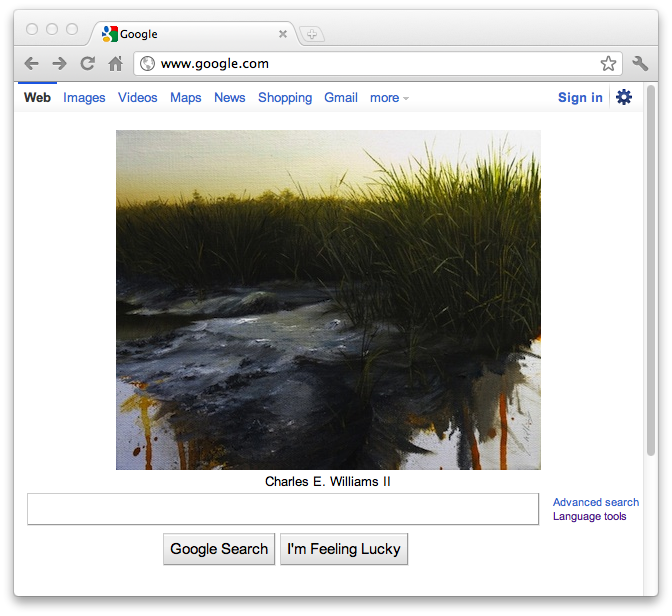
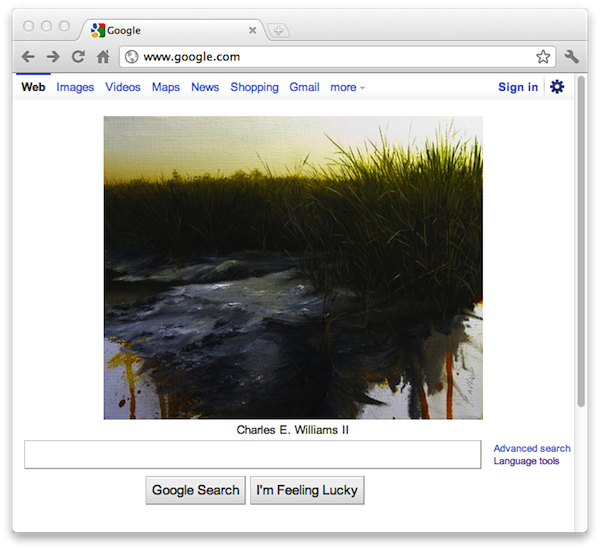
Resized screenshot

diff --git a/www/index.html b/www/index.html
@@ -18,6 +18,6 @@
 <h2>Nerd Stuff</h2>
 <p>MapsBridge is <a href="https://raw.github.com/tdeitch/artify/master/LICENSE" title="Artify's license">MIT Licensed</a>. Find the code on <a href="https://github.com/tdeitch/artify" title="Artify's GitHub">GitHub</a>. Created by <a href="http://tdeitch.com" title="Trey Deitch's homepage">Trey Deitch</a>.
 </div>
-<img src="screenshot.png" title="a screenshot of Artify in action">
+<img src="screenshot.png" height="550" width="600" title="a screenshot of Artify in action">
 </body>
 </html>
